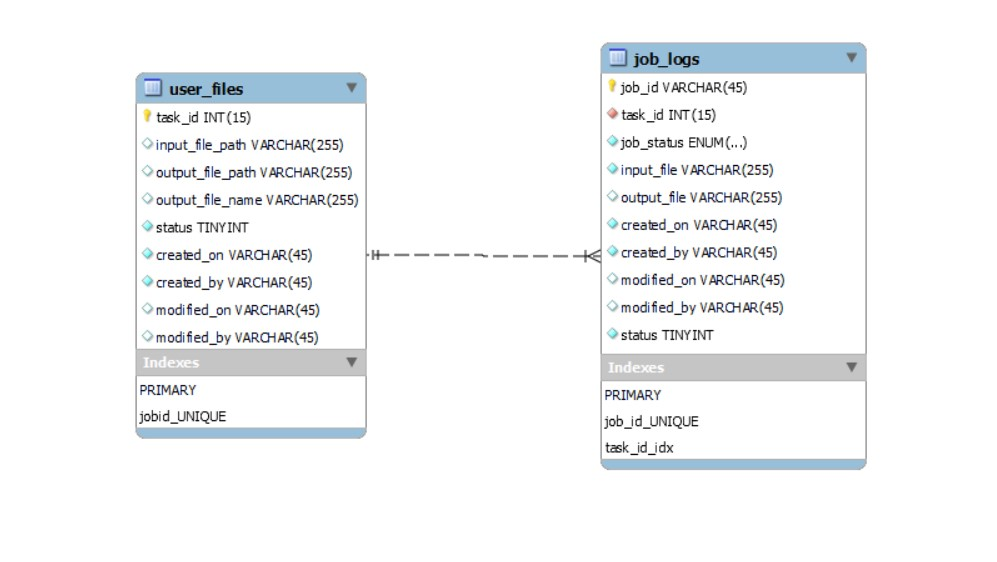
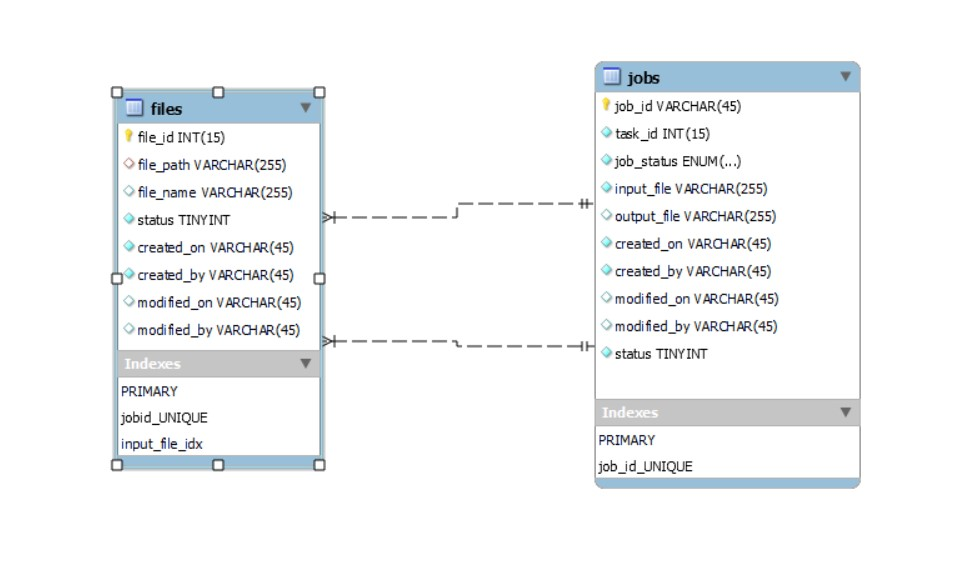
docs: update database design doc

Changed region(s): [[0.0923, 0.0605, 0.8923, 0.8772], [0.3692, 0.4235, 0.4, 0.484]]

diff --git a/apps/api/docs/database-design.md b/apps/api/docs/database-design.md
@@ -10,37 +10,36 @@ The tables discussed below will be created as part of the database migration.
 
 The database schema consists of the following 3 tables:
 
-- **user_files :** Contains details about all the user uploaded files with their Task IDs.
-- **job_logs** : Contains details about the queue system-related data, such as job metadata and status.
+- **files :** Contains details about all the user uploaded files with their Task IDs.
+- **job** : Contains details about the queue system-related data, such as job metadata and status.
 
 This schema can be visualized in the following image:
 ![Block Diagram](./assets/transcript-summarization-database-schema.jpg)
 
 ## **Data Dictionary**
 
-**user_files**
+**files**
 
 | Attribute | Data Type | Not Null | Default | Description |
 | --- | --- | --- | --- | --- |
-| task_id | int(11) | True |     | Primary key, unique identifier for the uploaded record |
-| input_file_path | varchar(255) |     |     | File path of user uploaded file |
-| output_file_path | varchar(255) |     |     | File path of summarized file stored in server after successful processing |
-| output_file_name | varchar(255) |     |     | File name of summarized file stored in server after successful processing |
+| file_id | int(11) | True |     | Primary key, unique identifier for the uploaded record |
+| file_path | varchar(255) |     |     | Stores the File path  |
+| file_name | varchar(255) |     |     | Stores the File name |
 | status | tinyint | True |     | Stores the response status code of the response |
 | created_on | timestamp | True | current_timestamp() | Stores the timestamp for the creation of the record |
 | created_by | Varchar(45) | True | admin | Stores the details of creator of the record |
 | modified_on | timestamp |     |     | Stores the timestamp for the last update to the record |
 | modified_by | Varchar(45) |     |     | Stores the details of Modifier of the record |
 
-**job_logs**
+**jobs**
 
 | Attribute | Data Type | Not Null | Default | Description |
 | --- | --- | --- | --- | --- |
 | job_id | int(11) | True |     | Primary key, unique identifier for the uploaded record |
-| task_id | varchar(255) | True |     | Stores the ID value for related task_id |
+| file_id | varchar(255) | True |     | Stores the ID value for related file_id |
 | job_status | enum | True |     | Stores the job status for related job_id |
-| input_file | varchar(255) |     |     | File path of user uploaded file |
-| output_file | varchar(255) |     |     | File path of summarized file stored in server after successful processing |
+| input_file | varchar(255) |     |     | References the file stored in files table |
+| output_file | varchar(255) |     |     | References the processed file stored in files table |
 | status | tinyint | True |     | Stores the active/inactive status of the record |
 | created_on | timestamp | True | current_timestamp() | Stores the timestamp for the creation of the record |
 | created_by | Varchar(45) | True | admin | Stores the details of creator of the record |
